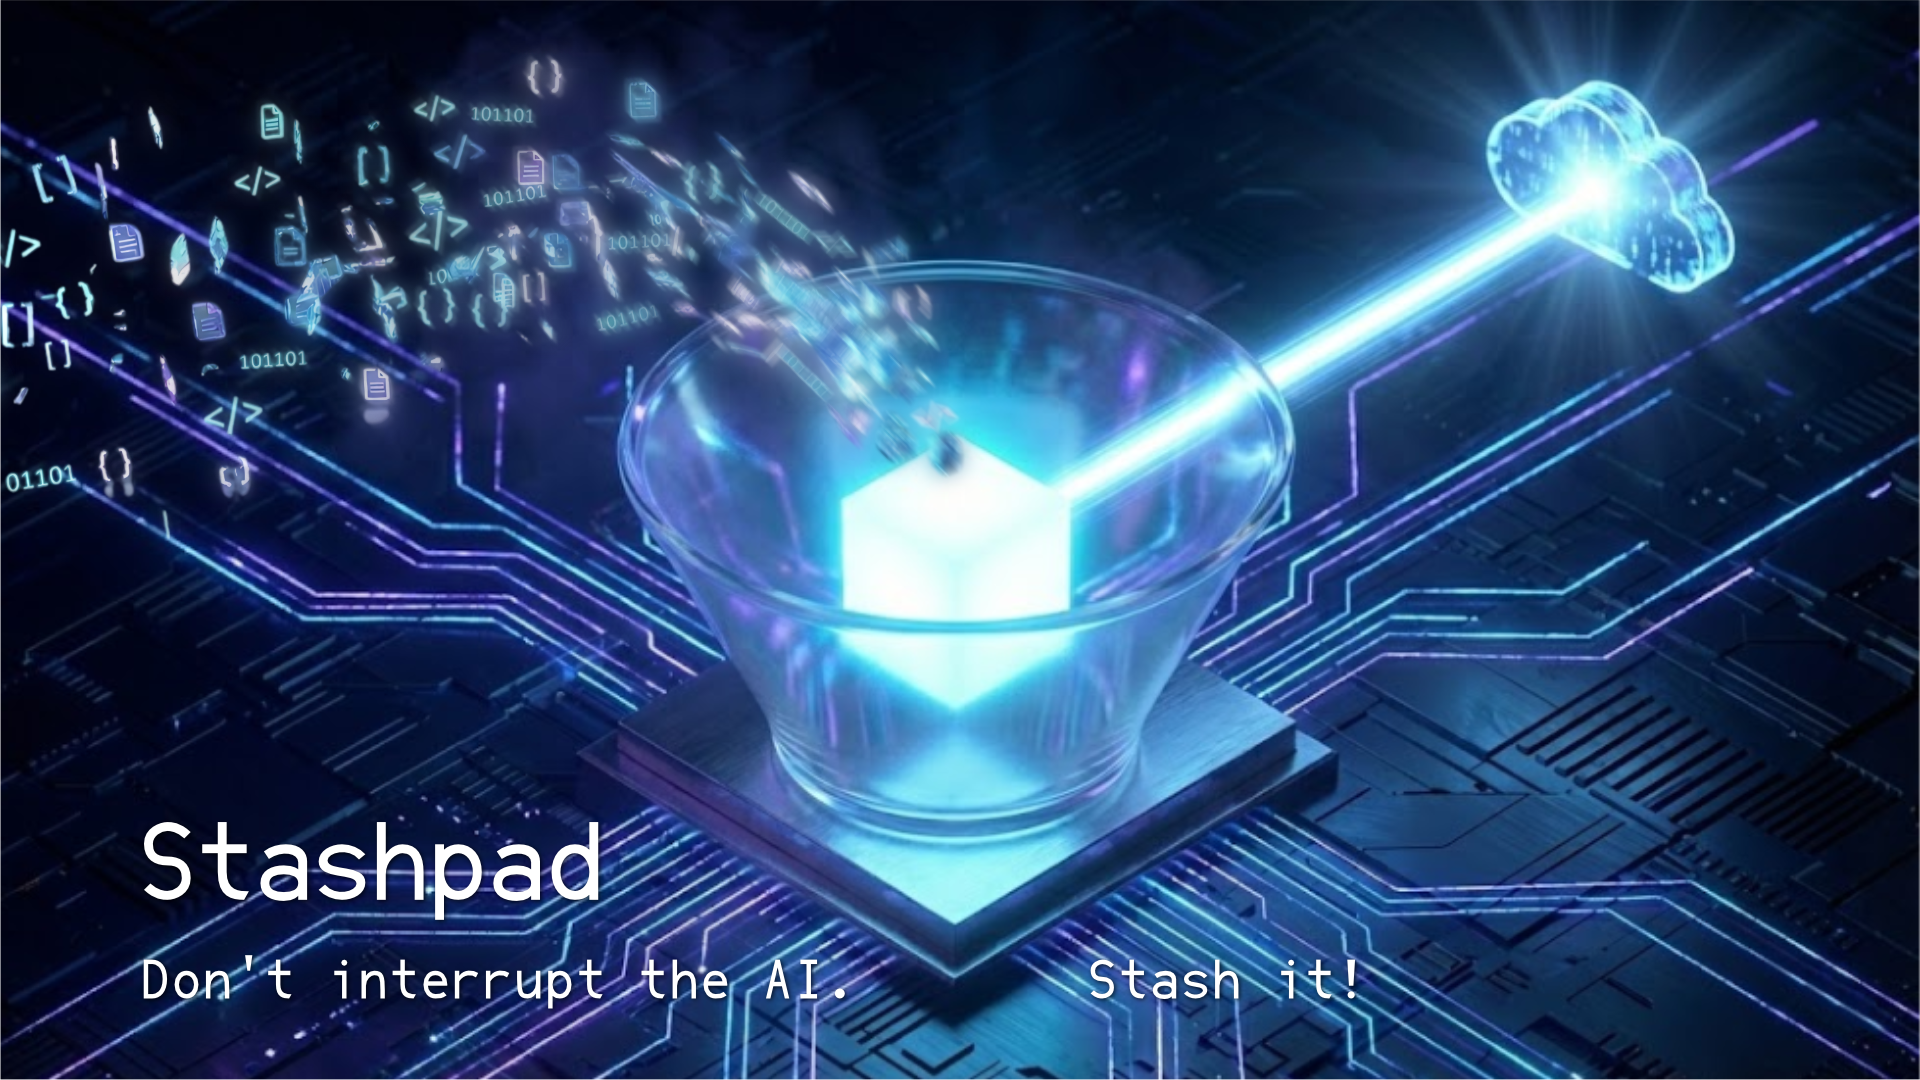
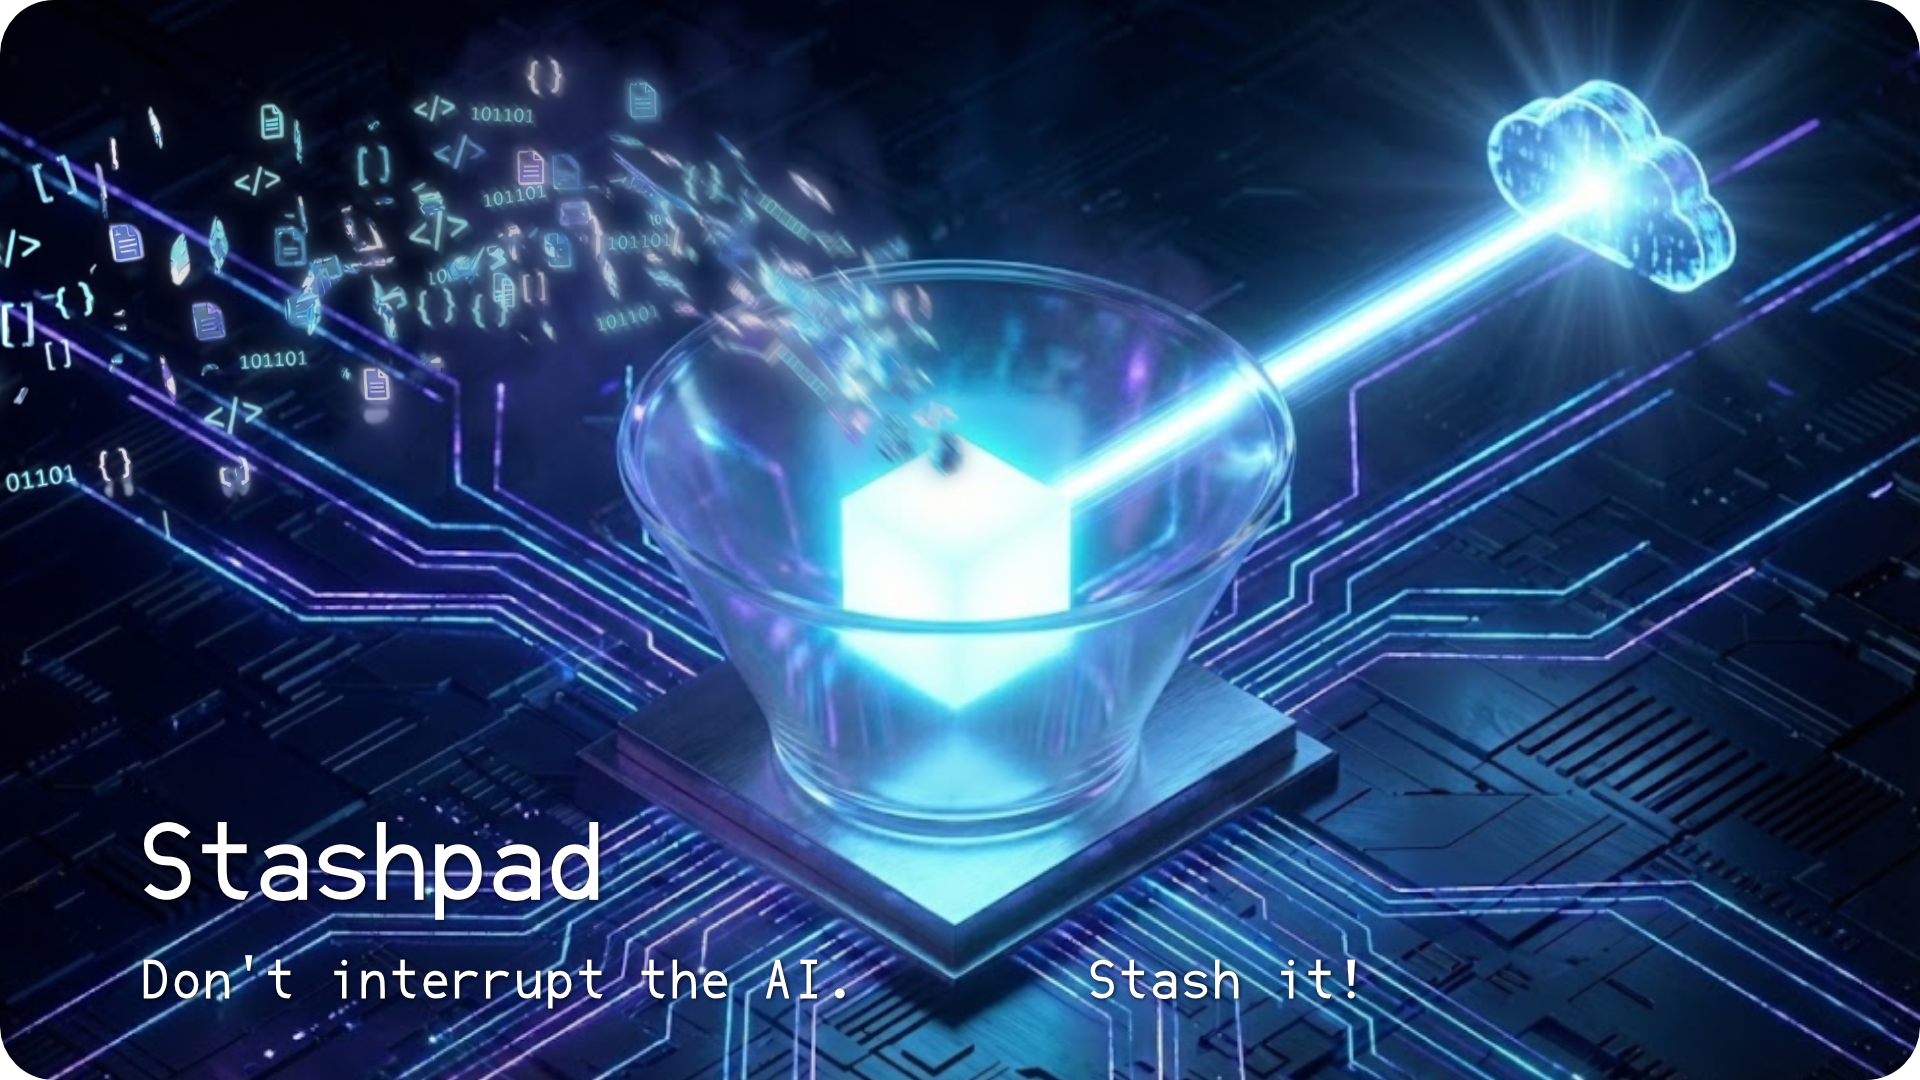
Replace key visual with compressed version

diff --git a/README.md b/README.md
@@ -2,7 +2,7 @@
 
 ![Status](https://img.shields.io/badge/Status-Prototype-blueviolet) ![Stack](https://img.shields.io/badge/Stack-Tauri_v2_|_Svelte_5_|_Rust-orange)
 
-![Don't interrupt the AI. Stash it!](assets/stashpad/Key%20Visual.jpg)
+![Don't interrupt the AI. Stash it!](assets/stashpad/Key%20Visual.webp)
 
 Stashpad is a **Local-First Developer Utility** designed for the age of AI coding. It acts as a temporary buffer ("Staging Area") for your thoughts, bugs, and context assets.
 
